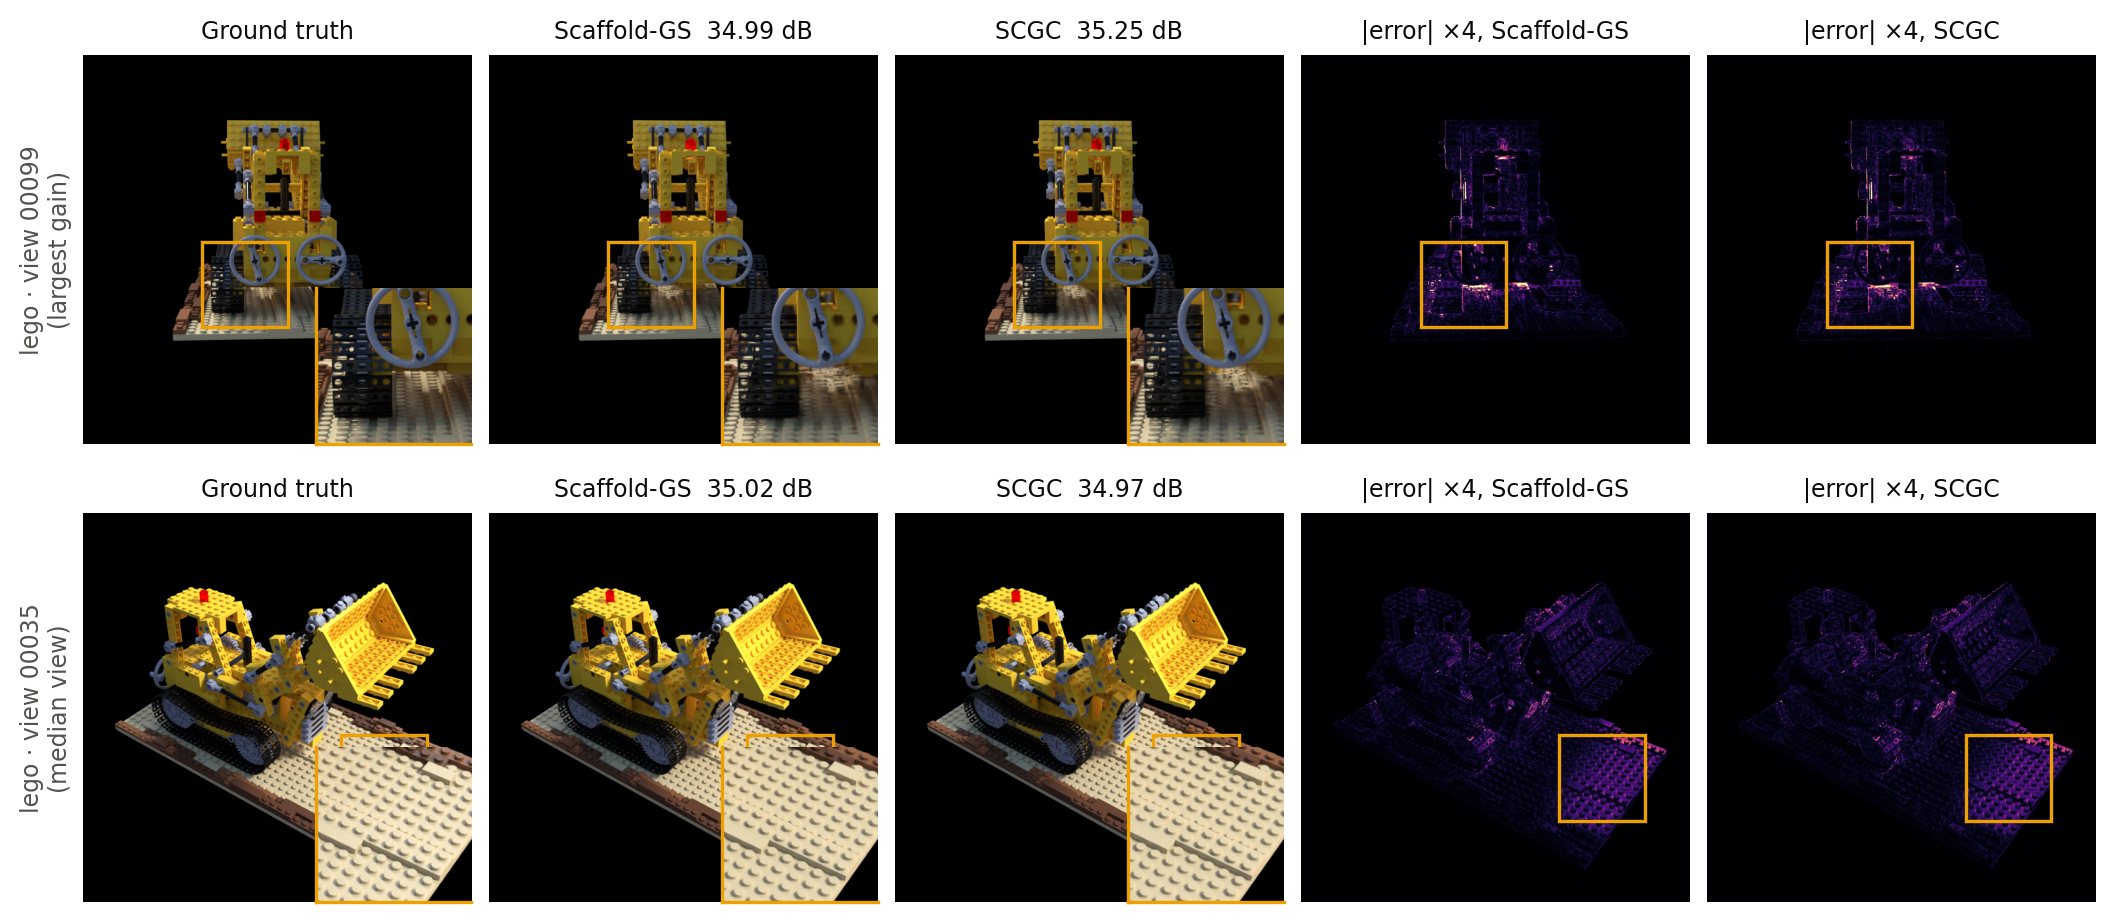
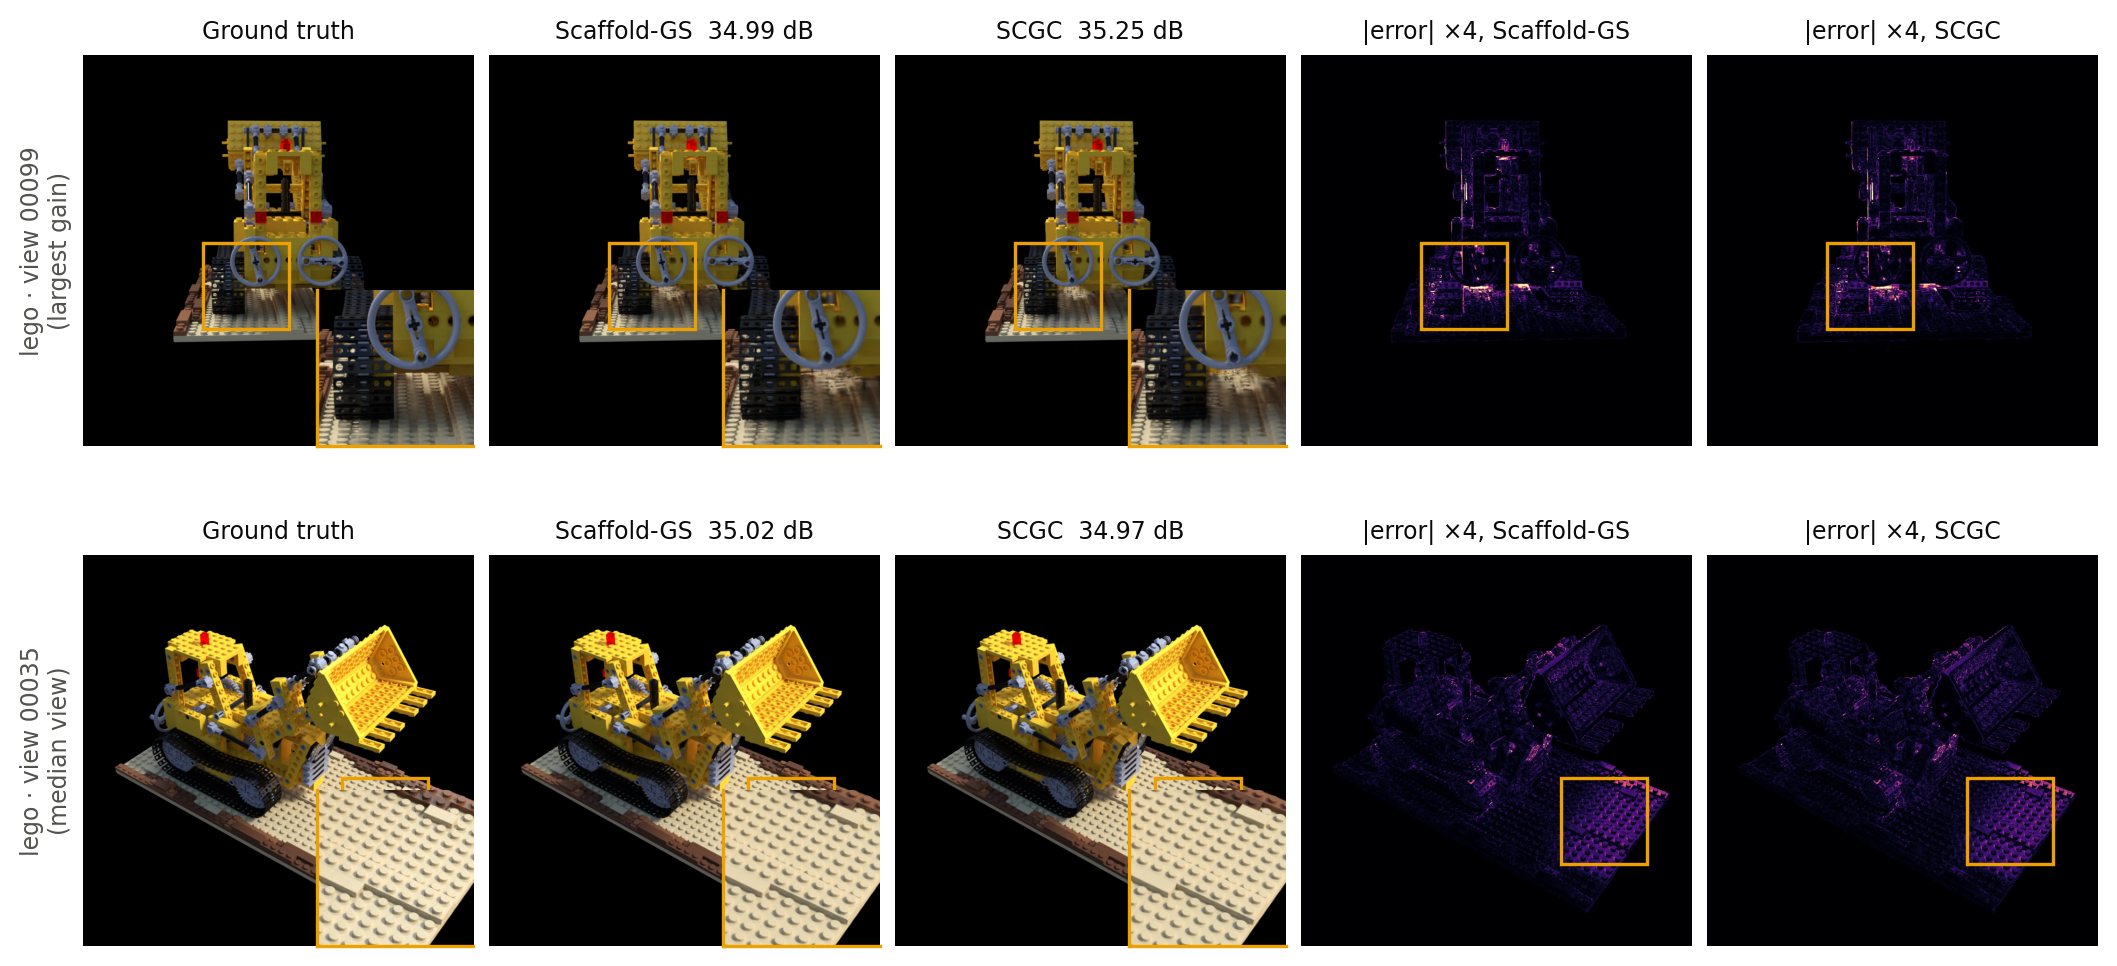
Gallery: fly-throughs and close-ups for all datasets; README without result tables

diff --git a/scripts/make_figures.py b/scripts/make_figures.py
@@ -57,7 +57,9 @@ def compare(dataset, scene, crop=0.22):
     picks = [("largest gain", names[int(np.argmax(gain))]), ("median view", names[int(np.argsort(gain)[len(gain) // 2])])]
 
     load = lambda p: np.asarray(Image.open(p).convert("RGB"), dtype=np.float32) / 255.0
-    fig, axes = plt.subplots(len(picks), 5, figsize=(13, 2.75 * len(picks)), squeeze=False,
+    H0, W0 = Image.open(os.path.join(a, "gt", picks[0][1])).size[::-1]
+    row_h = 13 / 5 * H0 / W0 + 0.4                      # panel height from the image aspect + title
+    fig, axes = plt.subplots(len(picks), 5, figsize=(13, row_h * len(picks)), squeeze=False,
                              gridspec_kw={"wspace": 0.04, "hspace": 0.18})
     for r, (label, n) in enumerate(picks):
         gt, ra, rb = load(os.path.join(a, "gt", n)), load(os.path.join(a, "renders", n)), load(os.path.join(b, "renders", n))

diff --git a/README.md b/README.md
@@ -6,7 +6,7 @@
 
 **Hongtao Xie** · **Hui Zhang**
 
-Beijing Normal – Hong Kong Baptist University (BNBU) · VRCAI 2025, Macau
+VRCAI 2025 · Macau
 
 <a href="https://doi.org/10.1145/3779232.3779453"><img src="https://img.shields.io/badge/Paper-ACM_DL-blue"></a>
 <a href="#-citation"><img src="https://img.shields.io/badge/📝_Cite-SCGC-blue"></a>
@@ -14,9 +14,9 @@ Beijing Normal – Hong Kong Baptist University (BNBU) · VRCAI 2025, Macau
 <img src="https://img.shields.io/badge/Built_on-Scaffold--GS-6f42c1">
 <img src="https://img.shields.io/badge/License-Inria_/_MPII_(non--commercial)-lightgrey">
 
-<img src="results/figures/flythrough_lego.gif" width="49%"> <img src="results/figures/flythrough_garden.gif" width="49%">
+<img src="results/figures/flythrough_lego.gif" width="49%"> <img src="results/figures/flythrough_ship.gif" width="49%">
 
-*Novel views rendered by the trained models, Scaffold-GS (left half) vs. SCGC (right half) of each clip.*
+*Novel views rendered by the trained models: Scaffold-GS (left half) vs. SCGC (right half) of each clip.*
 
 </div>
 
@@ -30,7 +30,7 @@ Scaffold-GS organises 3D Gaussians around anchors that are placed once, from a v
 - 🧠 **A tiny transformer** (2 layers, 4 heads, 128-d) lets every control point attend to all others and predicts how it should move: `P' = P + Transformer(P + E)`. Anchors follow their control points.
 - 🧲 **Dual-level contrastive learning**: InfoNCE on control-point features (jittered copies are positives, distant points are negatives) and on rendered patches (renders with jittered Gaussian scale/opacity are positives, other image regions are negatives).
 
-This repository is a **full re-implementation and re-run** of the paper: the original code was lost with an old laptop, so everything here was rebuilt from the paper, trained again on a Slurm cluster, and evaluated on four benchmarks with multiple seeds. The honest summary is in [📊 Results](#-results): **SCGC matches Scaffold-GS, it does not beat it** — and two things in the paper needed fixing to get there. 🔍
+This repository is a **full re-implementation and re-run** of the paper: the original code was lost with an old laptop, so everything here was rebuilt from the paper, trained again on a GPU cluster and evaluated on four benchmarks (NeRF-Synthetic, Mip-NeRF 360, Tanks & Temples, Deep Blending). 🔍
 
 ## 🧠 Method
 
@@ -46,40 +46,68 @@ This repository is a **full re-implementation and re-run** of the paper: the ori
 
 Positions inside the control-point module are expressed in units of the mean control-point spacing, so σ, the jitter and the clamps transfer unchanged from object-scale Blender scenes to room- and street-scale captures.
 
-## 📊 Results
+## 🎬 Gallery
 
-All numbers below come from this repository's code, trained for 30 k iterations with the official Scaffold-GS settings for each dataset (Blender: voxel 0.001, black background, 800×800; Mip-NeRF 360: `images_4` outdoor / `images_2` indoor; T&T: voxel 0.01; DB: voxel 0.005). Baseline and SCGC share the same initial point cloud and seeds.
+Every clip is a fly-through along the test cameras, **Scaffold-GS on the left, SCGC on the right**.
 
-### NeRF-Synthetic (8 scenes × 3 seeds)
+### NeRF-Synthetic
 
-| Method | Lego | Chair | Drums | Ficus | Hotdog | Materials | Mic | Ship | **Avg PSNR** | Avg SSIM | Avg LPIPS |
-|---|---|---|---|---|---|---|---|---|---|---|---|
-| Scaffold-GS | 35.45 | 34.92 | 26.25 | 34.87 | 37.74 | 30.48 | 36.42 | 31.32 | **33.43 ± 0.02** | 0.967 | 0.035 |
-| SCGC | 35.36 | 34.93 | 26.26 | 34.86 | 37.75 | 30.45 | 36.31 | 31.28 | **33.40 ± 0.01** | 0.967 | 0.035 |
+| | |
+|:---:|:---:|
+| <img src="results/figures/flythrough_chair.gif" width="100%"><br>chair | <img src="results/figures/flythrough_drums.gif" width="100%"><br>drums |
+| <img src="results/figures/flythrough_ficus.gif" width="100%"><br>ficus | <img src="results/figures/flythrough_hotdog.gif" width="100%"><br>hotdog |
+| <img src="results/figures/flythrough_materials.gif" width="100%"><br>materials | <img src="results/figures/flythrough_mic.gif" width="100%"><br>mic |
 
-<div align="center"><img src="results/figures/blender_delta.png" width="75%"></div>
+### Real scenes (Mip-NeRF 360 · Tanks & Temples · Deep Blending)
 
-Paired by seed, SCGC − Scaffold-GS is **−0.03 ± 0.02 dB** on average; every per-scene difference lies between −0.11 and +0.02 dB, i.e. inside the seed-to-seed spread. SSIM and LPIPS are identical to three decimals.
+| | |
+|:---:|:---:|
+| <img src="results/figures/flythrough_garden.gif" width="100%"><br>garden | <img src="results/figures/flythrough_bicycle.gif" width="100%"><br>bicycle |
+| <img src="results/figures/flythrough_room.gif" width="100%"><br>room | <img src="results/figures/flythrough_counter.gif" width="100%"><br>counter |
+| <img src="results/figures/flythrough_truck.gif" width="100%"><br>truck | <img src="results/figures/flythrough_train.gif" width="100%"><br>train |
+| <img src="results/figures/flythrough_playroom.gif" width="100%"><br>playroom | |
 
-<!--REAL-->
+### Close-ups
 
-<!--ABLATIONS-->
+The test view where SCGC gains the most and the median view, with a zoomed crop where the two methods differ most and ×4 error maps.
 
-### Qualitative comparison
+<img src="results/figures/compare_ship.png" width="100%">
+<img src="results/figures/compare_truck.png" width="100%">
+<img src="results/figures/compare_garden.png" width="100%">
 
-Each figure shows the test view where SCGC gains the most **and** the median view, with a zoomed crop where the two methods differ most and ×4 error maps.
+<details>
+<summary><b>More scenes</b></summary>
 
-<!--QUALITATIVE-->
+<img src="results/figures/compare_lego.png" width="100%">
+<img src="results/figures/compare_materials.png" width="100%">
+<img src="results/figures/compare_chair.png" width="100%">
+<img src="results/figures/compare_drums.png" width="100%">
+<img src="results/figures/compare_ficus.png" width="100%">
+<img src="results/figures/compare_hotdog.png" width="100%">
+<img src="results/figures/compare_mic.png" width="100%">
+<img src="results/figures/compare_bicycle.png" width="100%">
+<img src="results/figures/compare_stump.png" width="100%">
+<img src="results/figures/compare_flowers.png" width="100%">
+<img src="results/figures/compare_treehill.png" width="100%">
+<img src="results/figures/compare_room.png" width="100%">
+<img src="results/figures/compare_counter.png" width="100%">
+<img src="results/figures/compare_kitchen.png" width="100%">
+<img src="results/figures/compare_bonsai.png" width="100%">
+<img src="results/figures/compare_train.png" width="100%">
+<img src="results/figures/compare_playroom.png" width="100%">
+<img src="results/figures/compare_drjohnson.png" width="100%">
 
-### What the control points do
+</details>
 
-<!--CONTROLPOINTS-->
+### Control points
 
-<!--FPS-->
+The 512 control points (coloured by how far the transformer moved them) over the Scaffold-GS anchors (grey).
+
+<img src="results/figures/control_points_lego.png" width="49%"> <img src="results/figures/control_points_garden.png" width="49%">
 
 ## 📝 Notes on the reproduction
 
-Things worth knowing if you compare these numbers with the paper:
+Quantitatively, SCGC is on par with Scaffold-GS in this re-run: 33.40 vs. 33.43 dB PSNR on NeRF-Synthetic (3 seeds) and within ±0.35 dB on every real scene. Per-scene numbers for all datasets and ablations are in [`results/tables.md`](results/tables.md). Things worth knowing if you compare with the paper:
 
 1. **The Gaussian-level contrast weight.** With the paper's λ₃ = 0.02 the term costs about 2 dB (31.38 vs 33.43 average PSNR on Blender, 33.17 vs 35.37 on Lego). Early in training the rendered patches are nearly flat, and pushing them apart in an InfoNCE sense fights the photometric loss. λ₃ = 0.002 removes the penalty; it was chosen on a single scene (Lego), which is mild test-set tuning and is stated here for that reason. The paper-weight runs are kept in the ablations.
 2. **Bounded control-point drift.** A first version re-applied the transformer's step every 100 iterations without a bound on the total. On most scenes the points barely moved, but on Tanks & Temples *train* and Mip-NeRF 360 *bicycle* they ran away late in training (drift jumped from ≈ 0.05 to 5–10 control spacings between 20 k and 25 k iterations) and the reconstructions collapsed (12.4 dB and 21.1 dB PSNR). The total displacement is now clamped to 0.25 spacings; normal runs never get near the bound (≤ 0.05). The failing logs and the full v1 tables are kept in [`results/v1_unbounded/`](results/v1_unbounded/).

diff --git a/results/tables.md b/results/tables.md
@@ -40,7 +40,7 @@
 | Method | bicycle | garden | stump | flowers | treehill | room | counter | kitchen | bonsai | Avg PSNR | Avg SSIM | Avg LPIPS |
 |---|---|---|---|---|---|---|---|---|---|---|---|---|
 | Scaffold-GS | 25.20 | 27.48 | 26.61 | 21.44 | 23.09 | 32.02 | 29.51 | 31.60 | 32.58 | 27.73 | 0.815 | 0.220 |
-| SCGC (ours) | – | – | – | – | – | – | – | – | – | – | – | – |
+| SCGC (ours) | 25.29 | 27.34 | 26.61 | 21.25 | 22.89 | 31.88 | 29.52 | 31.25 | 32.65 | 27.63 | 0.812 | 0.219 |
 
 (per-scene cells are PSNR; one seed)
 
@@ -49,7 +49,7 @@
 | Method | truck | train | Avg PSNR | Avg SSIM | Avg LPIPS |
 |---|---|---|---|---|---|
 | Scaffold-GS | 25.78 | 22.40 | 24.09 | 0.854 | 0.174 |
-| SCGC (ours) | – | – | – | – | – |
+| SCGC (ours) | 25.81 | 22.24 | 24.03 | 0.847 | 0.183 |
 
 (per-scene cells are PSNR; one seed)
 
@@ -58,7 +58,7 @@
 | Method | playroom | drjohnson | Avg PSNR | Avg SSIM | Avg LPIPS |
 |---|---|---|---|---|---|
 | Scaffold-GS | 30.86 | 29.72 | 30.29 | 0.909 | 0.253 |
-| SCGC (ours) | – | – | – | – | – |
+| SCGC (ours) | 30.87 | 29.58 | 30.22 | 0.909 | 0.252 |
 
 (per-scene cells are PSNR; one seed)
 
@@ -80,23 +80,23 @@
 |---|---|---|---|
 | 256 pts | 33.40 | 0.967 | 0.034 |
 | SCGC (ours) | 33.40 | 0.967 | 0.034 |
-| 1024 pts | – | – | – |
+| 1024 pts | 33.39 | 0.967 | 0.034 |
 
 ## Transformer size (paper Table 3)
 
 | Config | PSNR | SSIM | LPIPS |
 |---|---|---|---|
-| 1L-2H | – | – | – |
+| 1L-2H | 33.40 | 0.967 | 0.034 |
 | SCGC (ours) | 33.40 | 0.967 | 0.034 |
-| 4L-4H | – | – | – |
-| 2L-8H | – | – | – |
+| 4L-4H | 33.40 | 0.967 | 0.034 |
+| 2L-8H | 33.40 | 0.967 | 0.034 |
 
 ## Loss weights λ1 / λ2 / λ3 (paper Table 4; paper default 0.10 / 0.05 / 0.02, ours 0.10 / 0.05 / 0.002)
 
 | Config | PSNR | SSIM | LPIPS |
 |---|---|---|---|
 | 0.01 / 0.01 / 0.01 | – | – | – |
-| SCGC, paper λ3 = 0.02 | – | – | – |
+| SCGC, paper λ3 = 0.02 | 31.38 | 0.962 | 0.045 |
 | 0.15 / 0.03 / 0.01 | – | – | – |
 | 0.30 / 0.10 / 0.05 | – | – | – |
 | SCGC (ours) | 33.40 | 0.967 | 0.034 |
